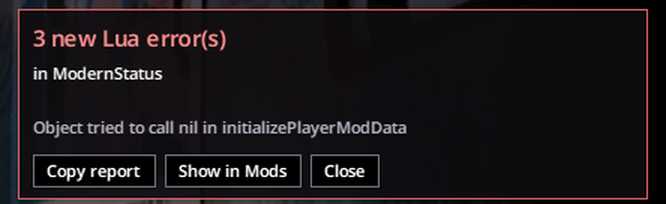
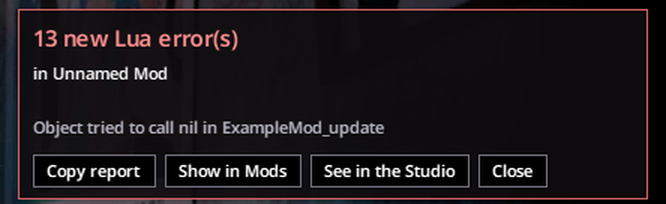
Workshop page for the Link: what only it and the app do, first
The page leads with the error notice that names the mod, the check before a save loads, profiles the game follows, Mod Health on the Mods screen and the Mod Merger; the Mods screen itself comes after, shorter. No other mod is named. The error notice image now comes from a throwaway example mod instead of a real one, and a new image shows a profile and a note on the Mods screen.

diff --git a/workshop/Z_StudioLink/SHOTS.md b/workshop/Z_StudioLink/SHOTS.md
@@ -11,9 +11,10 @@ matters:
 | `03-requirements.gif` | turning on 3D Equipment Lockers brings 3D Gun Racks; turning Viewpoint off lists who needs it (Back, nothing applied) | list and dialogs, app closed |
 | `04-load-order.gif` | sort by load order, drag Blood FX Fixes up: it stops under Blood FX; Undo | list, app closed |
 | `05-many-mods.gif` | Ctrl+click five mods → Turn all on (with Gun Racks), Undo; Blood FX's options window | list and details, app closed |
-| `06-error-notice.png` | the notice for a Lua error in ModernStatus | crop of the main menu |
+| `06-error-notice.png` | the notice for a Lua error, from a throwaway example mod (not active, so the game calls it "Unnamed Mod"); no real mod is shown failing | crop of the main menu, app open |
 | `07-profiles.gif` | the app switches to a small profile, the game's MODS screen shows it, then all installed | app, then game |
 | `08-save-check.png` | what changed in a save since its last session (a mod taken out, the order) | crop of the main menu |
+| `09-profile-in-game.png` | the Mods screen with the app open: profile's mods, a player's note on a mod | crop of the screen, opened from Lua |
 
 "App closed" was the Link told in memory that PZ Mod Studio is not running, so the screen is
 what a subscriber without the app sees. Nothing was accepted on the Mods screen during the
